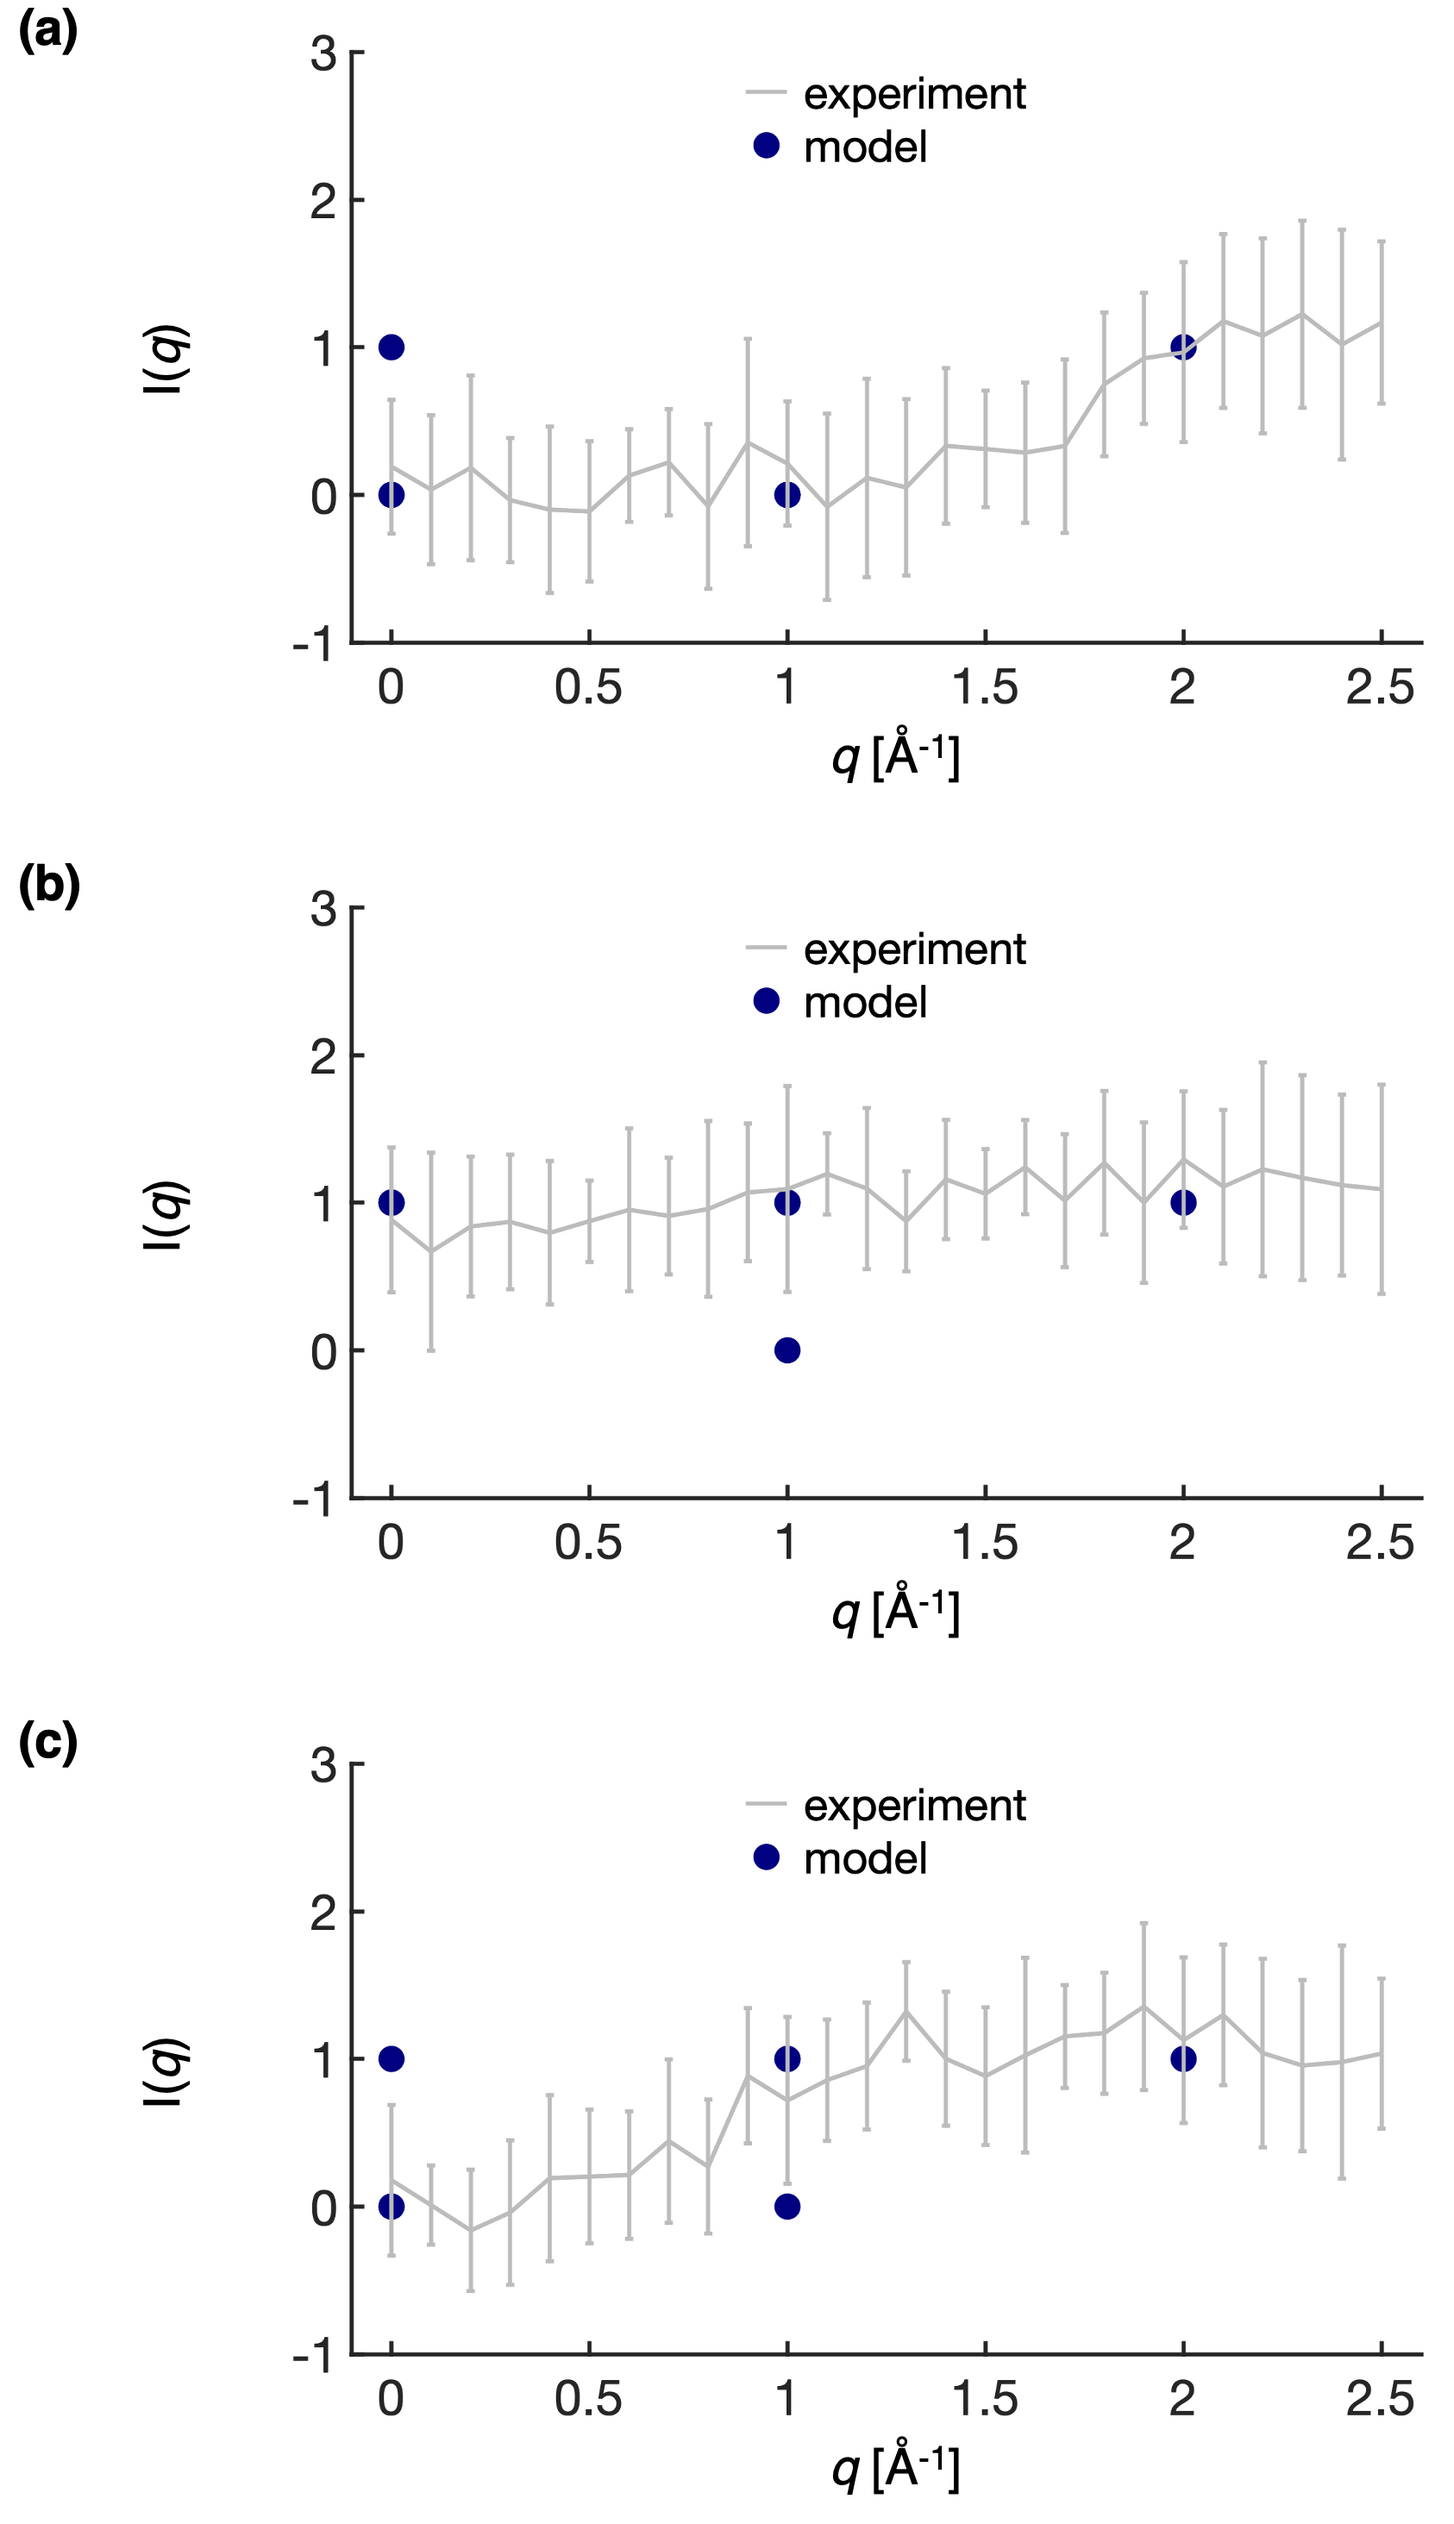
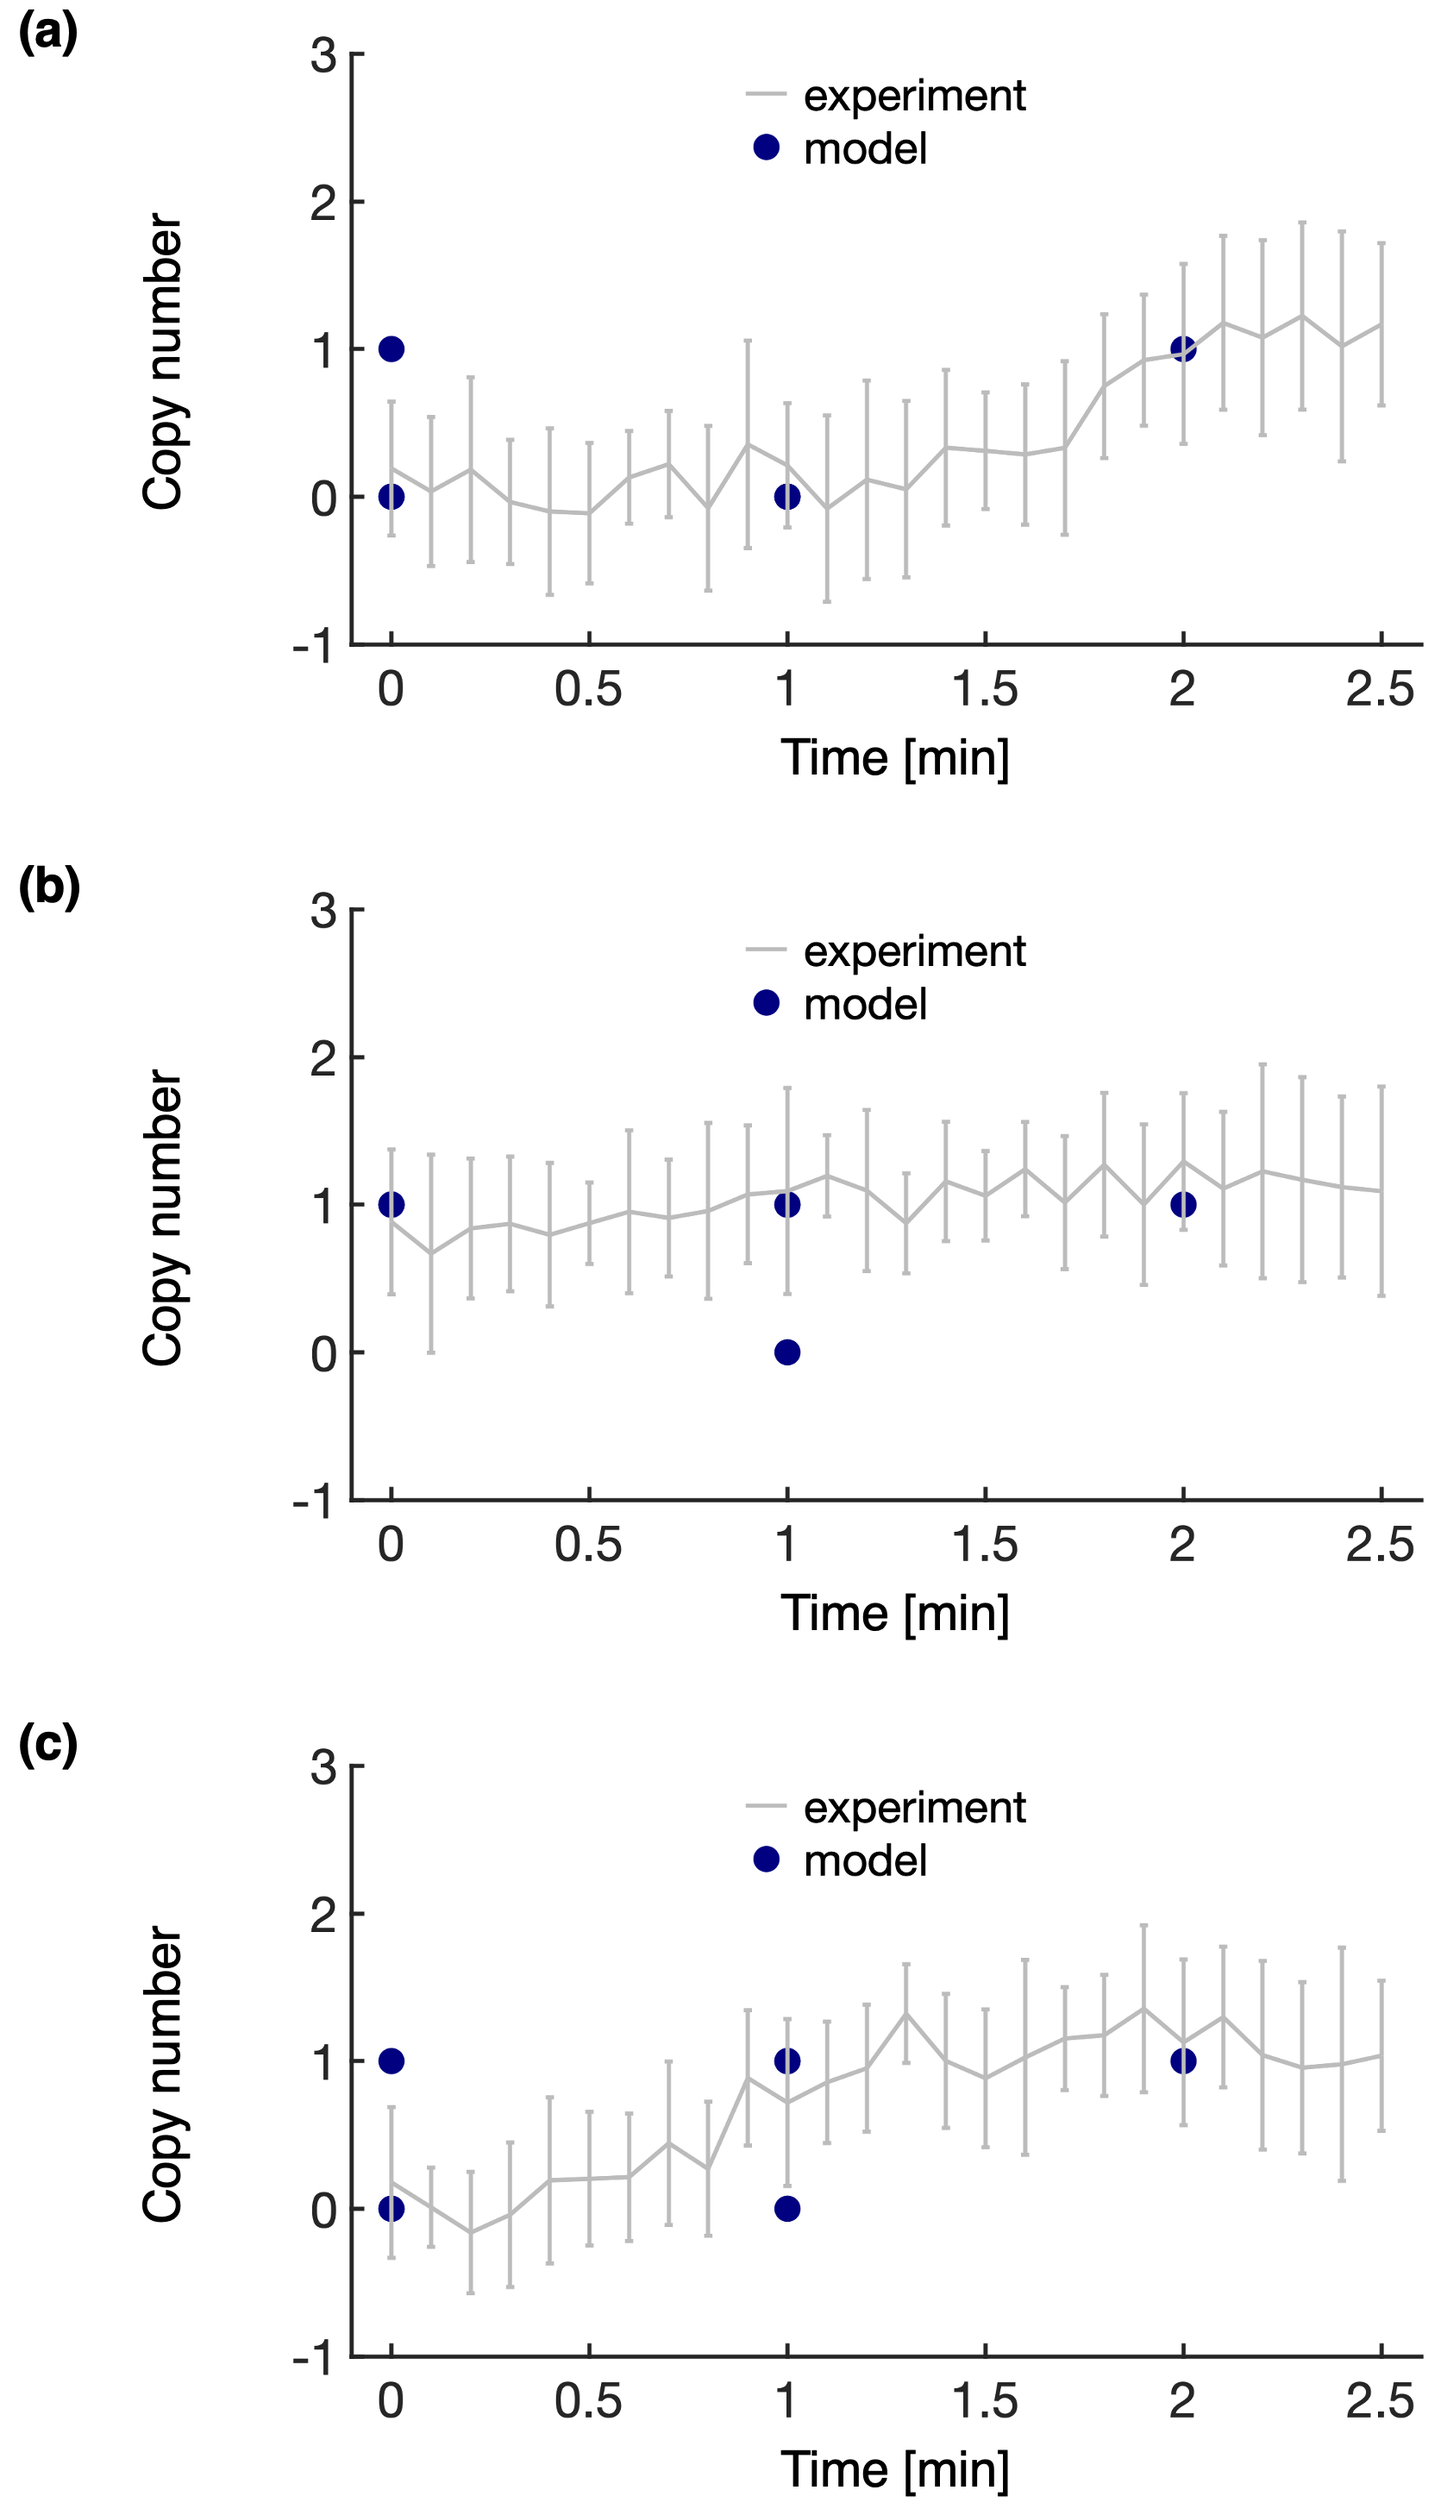
Updated tutorial

diff --git a/modeling/Heterogeneity/Heterogeneity_Assessment/plot_heterogeneity.py b/modeling/Heterogeneity/Heterogeneity_Assessment/plot_heterogeneity.py
@@ -1,0 +1,78 @@
+"""
+This code plots the heterogeneity of the system.
+"""
+
+import numpy as np
+import matplotlib.pyplot as plt
+
+# colors
+blue1=np.array([0,0,128])/255
+grey=np.array([188,  188,  188])/255
+
+
+if __name__ == "__main__":
+    # Import experimental data
+    expA=np.loadtxt("../../Input_Information/gen_FCS/A_v2.txt")
+    expB=np.loadtxt("../../Input_Information/gen_FCS/B_v2.txt")
+    expC=np.loadtxt("../../Input_Information/gen_FCS/C_v2.txt")
+
+    # Import heterogeneity models
+    model0=np.loadtxt("../Heterogeneity_Modeling/0min.txt")
+    model1=np.loadtxt("../Heterogeneity_Modeling/1min.txt")
+    model2=np.loadtxt("../Heterogeneity_Modeling/2min.txt")
+
+    # Convert heterogeneity models from copy number as a function of time to copy number as a function of protein
+    # There are 7 total models. First row is the copy number of that model. 2nd row is the time of that model
+    # For protein A
+    modelA=np.zeros((7,2))
+    modelA[0:3,0] = model0[:,0]
+    modelA[0:3,1] = 0
+    modelA[3:6, 0] = model1[:, 0]
+    modelA[3:6, 1] = 1
+    modelA[6, 0] = model2[0]
+    modelA[6, 1] = 2
+
+    # For protein B
+    modelB = np.zeros((7, 2))
+    modelB[0:3, 0] = model0[:, 1]
+    modelB[0:3, 1] = 0
+    modelB[3:6, 0] = model1[:, 1]
+    modelB[3:6, 1] = 1
+    modelB[6, 0] = model2[1]
+    modelB[6, 1] = 2
+
+    # For protein C
+    modelC = np.zeros((7, 2))
+    modelC[0:3, 0] = model0[:, 2]
+    modelC[0:3, 1] = 0
+    modelC[3:6, 0] = model1[:, 2]
+    modelC[3:6, 1] = 1
+    modelC[6, 0] = model2[2]
+    modelC[6, 1] = 2
+
+    # Plot data
+    fig, ((ax1), (ax2), (ax3)) = plt.subplots(3, 1, figsize=(5,8))
+    ax1.errorbar(expA[:,0], expA[:,1], yerr=expA[:,2], color=grey)
+    ax1.plot(modelA[:,1], modelA[:,0], 'o', color=blue1)
+    ax1.set_ylabel('Copy number')
+    ax1.set_xlabel('Time [min]')
+    ax1.set_xlim(-0.2,2.7)
+    ax1.set_ylim(-1,2.5)
+    ax1.legend(['model', 'experiment'], loc='upper left')
+    ax2.errorbar(expB[:,0], expB[:,1], yerr=expB[:,2], color=grey)
+    ax2.plot(modelB[:,1], modelB[:,0], 'o', color=blue1)
+    ax2.set_ylabel('Copy number')
+    ax2.set_xlabel('Time [min]')
+    ax2.set_xlim(-0.2, 2.7)
+    ax2.set_ylim(-0.5, 3)
+    ax2.legend(['model', 'experiment'], loc='upper left')
+    ax3.errorbar(expC[:,0], expC[:,1], yerr=expC[:,2], color=grey)
+    ax3.plot(modelC[:,1], modelC[:,0], 'o', color=blue1)
+    ax3.set_ylabel('Copy number')
+    ax3.set_xlabel('Time [min]')
+    ax3.set_xlim(-0.2, 2.7)
+    ax2.set_ylim(-0.5, 3)
+    ax3.legend(['model', 'experiment'], loc='upper left')
+    plt.subplots_adjust(hspace=0.5)
+    plt.show()
+

diff --git a/doc/mainpage.md b/doc/mainpage.md
@@ -31,7 +31,7 @@ This tutorial will walk you through the links below, which contain a breakdown o
 
 - [modeling of a trajectory] (@ref trajectories)
 
-To work through this example, a variety of python packages will be necessary in addition to [IMP](https://integrativemodeling.org/). These packages are [numpy](https://numpy.org/), [os](https://docs.python.org/3/library/os.html), [warnings](https://docs.python.org/3/library/warnings.html), [sys](https://docs.python.org/3/library/sys.html), [itertools](https://docs.python.org/3/library/itertools.html), [pandas](https://pandas.pydata.org/), [matplotlib](https://matplotlib.org/), [pyRMSD](https://pypi.org/project/pyRMSD/), and [graphviz](https://graphviz.org/). Optionally, [UCSF Chimera](https://www.rbvi.ucsf.edu/chimera/), [UCSF ChimeraX](https://www.cgl.ucsf.edu/chimerax/), [gnuplot](http://www.gnuplot.info/), and [MATLAB](https://www.mathworks.com/products/matlab.html) can be used for visualizing structures or plotting data.
+To work through this example, a variety of python packages will be necessary in addition to [IMP](https://integrativemodeling.org/). These packages are [numpy](https://numpy.org/), [os](https://docs.python.org/3/library/os.html), [warnings](https://docs.python.org/3/library/warnings.html), [sys](https://docs.python.org/3/library/sys.html), [itertools](https://docs.python.org/3/library/itertools.html), [pandas](https://pandas.pydata.org/), [matplotlib](https://matplotlib.org/), [pyRMSD](https://github.com/salilab/pyRMSD/), and [graphviz](https://graphviz.org/). Optionally, [UCSF Chimera](https://www.rbvi.ucsf.edu/chimera/), [UCSF ChimeraX](https://www.cgl.ucsf.edu/chimerax/), [gnuplot](http://www.gnuplot.info/), and [MATLAB](https://www.mathworks.com/products/matlab.html) can be used for visualizing structures or plotting data.
 
 The code for this tutorial is available through its [GitHub link](https://github.com/salilab/imp_spatiotemporal_tutorial). A complete, worked example of the tutorial is available in the `modeling` folder; meanwhile, the necessary code and input information without the resulting model are available in the `modeling_empty` folder, from which the user can run the code for themselves. A [Google Colab notebook](https://colab.research.google.com/github/salilab/imp_spatiotemporal_tutorial/blob/main/Jupyter/spatiotemporal-colab.ipynb) with the less computationally expensive steps is also available.
 

diff --git a/doc/heterogeneity.md b/doc/heterogeneity.md
@@ -43,4 +43,4 @@ Now, we have a variety of heterogeneity models. In general, there are four ways 
 
 \image html Heterogeneity_Assessment.png width=600px
 
-In the `Heterogeneity/Heterogeneity_Assessment` folder, there is a single script, `plot_heterogeneity.m`. This script plots the modeled and experimental copy numbers simultaneously, as shown below for proteins A (a), B (b), and C (c). From these plots, we observe that the range of possible experimental copy numbers are well sampled by the heterogeneity models, indicating that we are prepared for [snapshot modeling.] (@ref snapshots)
+In the `Heterogeneity/Heterogeneity_Assessment` folder, there is a single script, `plot_heterogeneity.py`. This script plots the modeled and experimental copy numbers simultaneously, as shown below for proteins A (a), B (b), and C (c). From these plots, we observe that the range of possible experimental copy numbers are well sampled by the heterogeneity models, indicating that we are prepared for [snapshot modeling.] (@ref snapshots)
